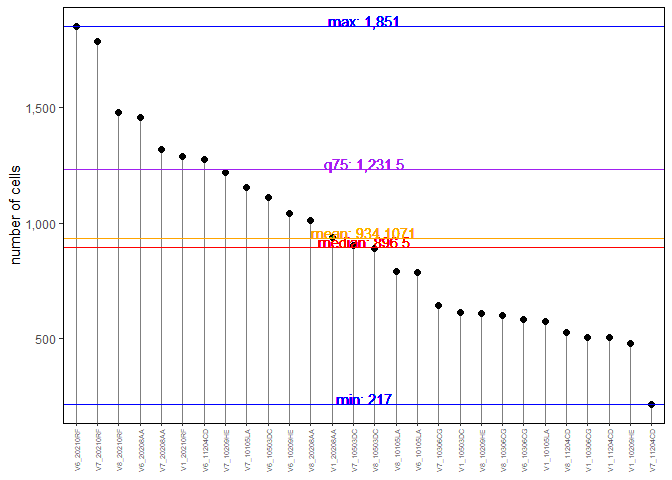
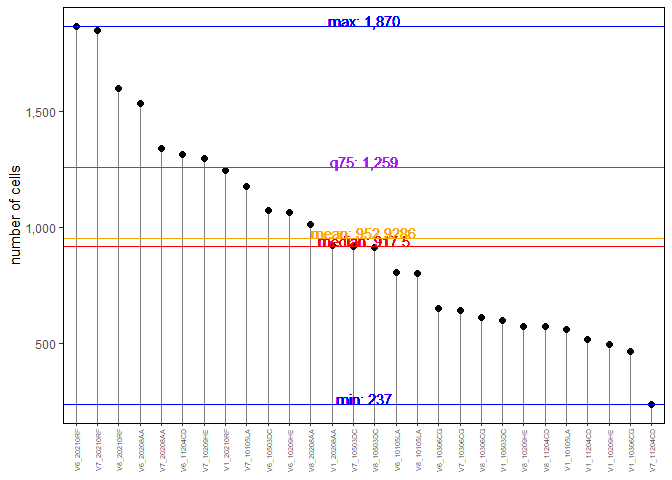
update

diff --git a/README.md b/README.md
@@ -265,26 +265,26 @@ UMAPV <- generateManifold(UMAPV,
 
     ## Manifold method is: UMAP
 
-    ## 16:23:25 UMAP embedding parameters a = 1.896 b = 0.8006
+    ## 17:32:02 UMAP embedding parameters a = 1.896 b = 0.8006
 
-    ## 16:23:25 Read 26155 rows and found 10 numeric columns
+    ## 17:32:02 Read 26682 rows and found 10 numeric columns
 
-    ## 16:23:25 Using Annoy for neighbor search, n_neighbors = 15
+    ## 17:32:02 Using Annoy for neighbor search, n_neighbors = 15
 
-    ## 16:23:26 Building Annoy index with metric = euclidean, n_trees = 50
+    ## 17:32:02 Building Annoy index with metric = euclidean, n_trees = 50
 
     ## 0%   10   20   30   40   50   60   70   80   90   100%
 
     ## [----|----|----|----|----|----|----|----|----|----|
 
     ## **************************************************|
-    ## 16:23:27 Writing NN index file to temp file C:\Users\GWMA\AppData\Local\Temp\Rtmpaa3Npb\file163423901a11
-    ## 16:23:27 Searching Annoy index using 40 threads, search_k = 1500
-    ## 16:23:28 Annoy recall = 100%
-    ## 16:23:29 Commencing smooth kNN distance calibration using 40 threads
-    ## 16:23:29 Initializing from normalized Laplacian + noise
-    ## 16:23:30 Commencing optimization for 200 epochs, with 526288 positive edges using 1 thread
-    ## 16:23:47 Optimization finished
+    ## 17:32:04 Writing NN index file to temp file C:\Users\GWMA\AppData\Local\Temp\RtmpclyopB\file46ac4de77d1d
+    ## 17:32:04 Searching Annoy index using 40 threads, search_k = 1500
+    ## 17:32:05 Annoy recall = 100%
+    ## 17:32:05 Commencing smooth kNN distance calibration using 40 threads
+    ## 17:32:06 Initializing from normalized Laplacian + noise
+    ## 17:32:07 Commencing optimization for 200 epochs, with 535980 positive edges using 1 thread
+    ## 17:32:25 Optimization finished
 
 The main arguments of the `generateManifold` function are:
 
@@ -408,10 +408,11 @@ This function is used as below:
 ``` r
 # Heatmap of expression markers 
 hm.exp <- plotHmExpressions(UMAPV)
+gridExtra::grid.arrange(hm.exp)
 ```
 
-It is possible to customize the `plotHmExpressions` with these
-parameters:
+![](README_files/figure-markdown_github/PlotHMExpressions-1.png) It is
+possible to customize the `plotHmExpressions` with these parameters:
 
 -   the `markers` argument, which specifies the markers to be displayed
 -   the `clusters` argument, which specifies the identifiers of the
@@ -425,7 +426,10 @@ following example:
 hm.exp <- plotHmExpressions(UMAPV, 
                             markers = c("NKP44", "NKp30", "NKp46", "NKG2D"), 
                             clusters = c(1:50))
+gridExtra::grid.arrange(hm.exp)
 ```
+
+![](README_files/figure-markdown_github/plotHmExpressions2-1.png)
 
 # 3. Statistics and visualization
 
@@ -513,7 +517,11 @@ Here is an example for generating such representation:
 hm.stats <- plotHmStatistics(UMAPV, 
                              clusters = NULL,
                              statistics = "pvalue")
+
+gridExtra::grid.arrange(hm.stats)
 ```
+
+![](README_files/figure-markdown_github/plotHmStatistics-1.png)
 
 ## 3.3 Visualisation of cell cluster abundances
 
@@ -536,7 +544,7 @@ samples = c(V1, V6)
 
 #Statistically different clusters
 stats <- UMAPV@statistic[UMAPV@statistic$comparison == "V6 vs. V1",]
-clusters = stats[stats$pvalue<=0.01 & abs(stats$lfc)>log(1.5)/log(2),]$clusters
+clusters = stats[stats$pvalue<=0.05 & abs(stats$lfc)>log(1.2)/log(2),]$clusters
 
 # Heatmap of abundances
 plotHmAbundances(UMAPV, 
@@ -564,7 +572,7 @@ Here is an example for generating such representation:
 ``` r
 # Boxplot for differential analysis
 plotBoxplot(UMAPV, 
-            clusters = "31",
+            clusters = clusters,
             samples = NULL,
             observation = "timepoint", 
             test.statistics = "wilcox.test")
@@ -763,40 +771,40 @@ QCS <- QCSmallClusters(UMAPV,
 ![](README_files/figure-markdown_github/QCSmallClusters-1.png)
 
     ##      V1_10105LA V1_10209HE V1_10306CG V1_10503DC V1_11204CD V1_20208AA
-    ## [1,]       TRUE       TRUE       TRUE       TRUE       TRUE       TRUE
-    ## [2,]      FALSE       TRUE       TRUE      FALSE       TRUE      FALSE
+    ## [1,]      FALSE      FALSE      FALSE       TRUE       TRUE      FALSE
+    ## [2,]       TRUE       TRUE       TRUE      FALSE      FALSE      FALSE
     ## [3,]       TRUE       TRUE       TRUE       TRUE       TRUE       TRUE
-    ## [4,]       TRUE       TRUE       TRUE       TRUE       TRUE       TRUE
+    ## [4,]      FALSE      FALSE       TRUE      FALSE      FALSE      FALSE
     ## [5,]       TRUE      FALSE      FALSE      FALSE      FALSE      FALSE
-    ## [6,]      FALSE      FALSE       TRUE      FALSE       TRUE      FALSE
+    ## [6,]      FALSE      FALSE       TRUE      FALSE       TRUE       TRUE
     ##      V1_20210RF V6_10105LA V6_10209HE V6_10306CG V6_10503DC V6_11204CD
-    ## [1,]       TRUE       TRUE      FALSE      FALSE      FALSE      FALSE
-    ## [2,]      FALSE       TRUE       TRUE      FALSE      FALSE       TRUE
+    ## [1,]      FALSE      FALSE      FALSE      FALSE      FALSE       TRUE
+    ## [2,]      FALSE       TRUE      FALSE      FALSE      FALSE      FALSE
     ## [3,]       TRUE       TRUE       TRUE       TRUE       TRUE       TRUE
-    ## [4,]       TRUE       TRUE       TRUE       TRUE       TRUE       TRUE
+    ## [4,]      FALSE      FALSE      FALSE       TRUE      FALSE      FALSE
     ## [5,]      FALSE      FALSE      FALSE      FALSE      FALSE      FALSE
-    ## [6,]      FALSE      FALSE      FALSE       TRUE      FALSE       TRUE
+    ## [6,]      FALSE      FALSE      FALSE       TRUE       TRUE      FALSE
     ##      V6_20208AA V6_20210RF V7_10105LA V7_10209HE V7_10306CG V7_10503DC
-    ## [1,]       TRUE      FALSE       TRUE      FALSE       TRUE       TRUE
-    ## [2,]      FALSE      FALSE       TRUE       TRUE       TRUE       TRUE
+    ## [1,]      FALSE      FALSE      FALSE       TRUE      FALSE      FALSE
+    ## [2,]      FALSE      FALSE      FALSE      FALSE      FALSE      FALSE
     ## [3,]       TRUE       TRUE       TRUE       TRUE       TRUE       TRUE
-    ## [4,]       TRUE       TRUE       TRUE       TRUE       TRUE       TRUE
+    ## [4,]      FALSE      FALSE      FALSE      FALSE       TRUE      FALSE
     ## [5,]      FALSE      FALSE      FALSE      FALSE      FALSE      FALSE
-    ## [6,]      FALSE      FALSE      FALSE      FALSE       TRUE      FALSE
+    ## [6,]      FALSE      FALSE      FALSE      FALSE      FALSE      FALSE
     ##      V7_11204CD V7_20208AA V7_20210RF V8_10105LA V8_10209HE V8_10306CG
-    ## [1,]      FALSE       TRUE      FALSE      FALSE       TRUE       TRUE
-    ## [2,]       TRUE       TRUE      FALSE       TRUE       TRUE      FALSE
+    ## [1,]       TRUE      FALSE      FALSE       TRUE      FALSE      FALSE
+    ## [2,]      FALSE      FALSE      FALSE      FALSE       TRUE       TRUE
     ## [3,]       TRUE       TRUE       TRUE       TRUE       TRUE       TRUE
-    ## [4,]       TRUE       TRUE       TRUE       TRUE       TRUE       TRUE
-    ## [5,]       TRUE      FALSE      FALSE       TRUE      FALSE      FALSE
-    ## [6,]       TRUE      FALSE      FALSE       TRUE      FALSE      FALSE
+    ## [4,]       TRUE      FALSE      FALSE       TRUE      FALSE      FALSE
+    ## [5,]       TRUE      FALSE      FALSE      FALSE      FALSE      FALSE
+    ## [6,]       TRUE      FALSE      FALSE      FALSE      FALSE       TRUE
     ##      V8_10503DC V8_11204CD V8_20208AA V8_20210RF total.cells
-    ## [1,]       TRUE       TRUE       TRUE       TRUE       FALSE
-    ## [2,]       TRUE       TRUE      FALSE      FALSE       FALSE
+    ## [1,]      FALSE       TRUE      FALSE      FALSE       FALSE
+    ## [2,]      FALSE      FALSE      FALSE      FALSE       FALSE
     ## [3,]       TRUE       TRUE       TRUE       TRUE       FALSE
-    ## [4,]       TRUE       TRUE       TRUE       TRUE       FALSE
+    ## [4,]      FALSE      FALSE      FALSE      FALSE       FALSE
     ## [5,]      FALSE      FALSE      FALSE      FALSE       FALSE
-    ## [6,]      FALSE      FALSE      FALSE      FALSE       FALSE
+    ## [6,]      FALSE       TRUE      FALSE      FALSE       FALSE
 
 The second method allows to identify the uniform clusters, i.e.those
 with unimodal expression and low dispersion of expression for all its
@@ -837,12 +845,12 @@ QCU <- QCUniformClusters(UMAPV,
 ![](README_files/figure-markdown_github/QCUniformClusters-1.png)
 
     ##   clusters markers    pv_dip       IQR passed
-    ## 1        1    CD16 0.9493038 0.4799740   TRUE
-    ## 2        1     CD3 0.9550213 0.6609962   TRUE
-    ## 3        1    CD56 0.9957443 0.3544730   TRUE
-    ## 4        1     CD8 0.9925132 0.6298361   TRUE
-    ## 5        1   HLADR 0.9145862 0.6932121   TRUE
-    ## 6        1   NKG2D 0.6872337 0.3771434   TRUE
+    ## 1        1    CD16 0.9840834 0.3861998   TRUE
+    ## 2        1     CD3 0.9909752 0.3403437   TRUE
+    ## 3        1    CD56 0.9608222 0.3313725   TRUE
+    ## 4        1     CD8 0.9204992 0.3471428   TRUE
+    ## 5        1   HLADR 0.9886411 0.2666003   TRUE
+    ## 6        1   NKG2D 0.9414757 0.2208474   TRUE
 
 # 5. Advanced usage
 
